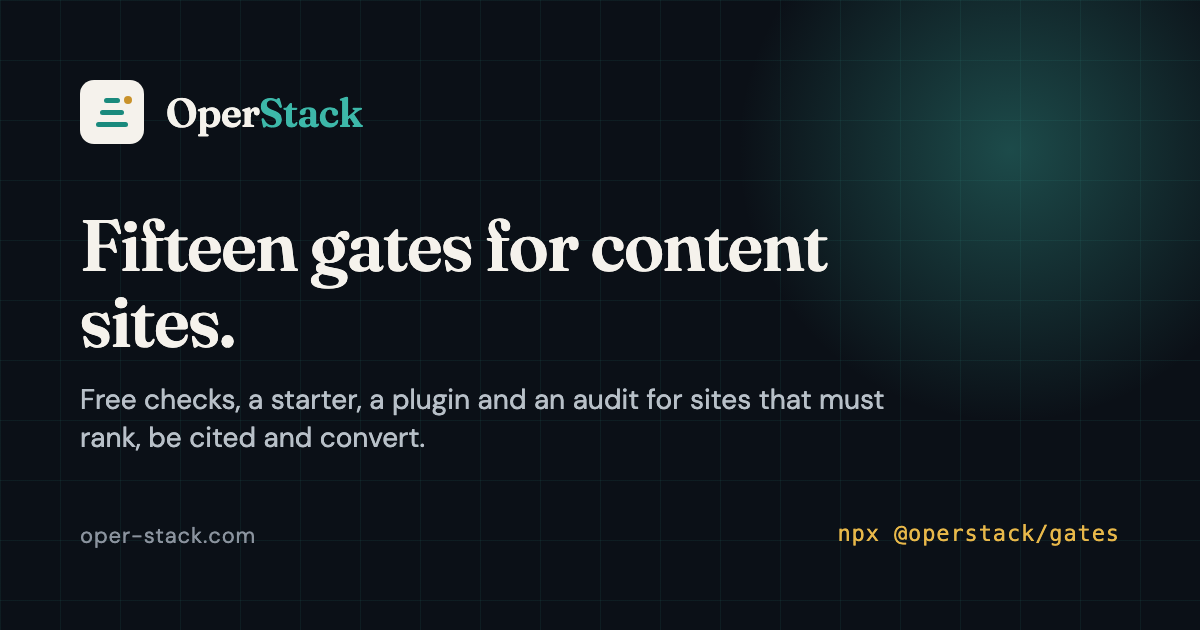
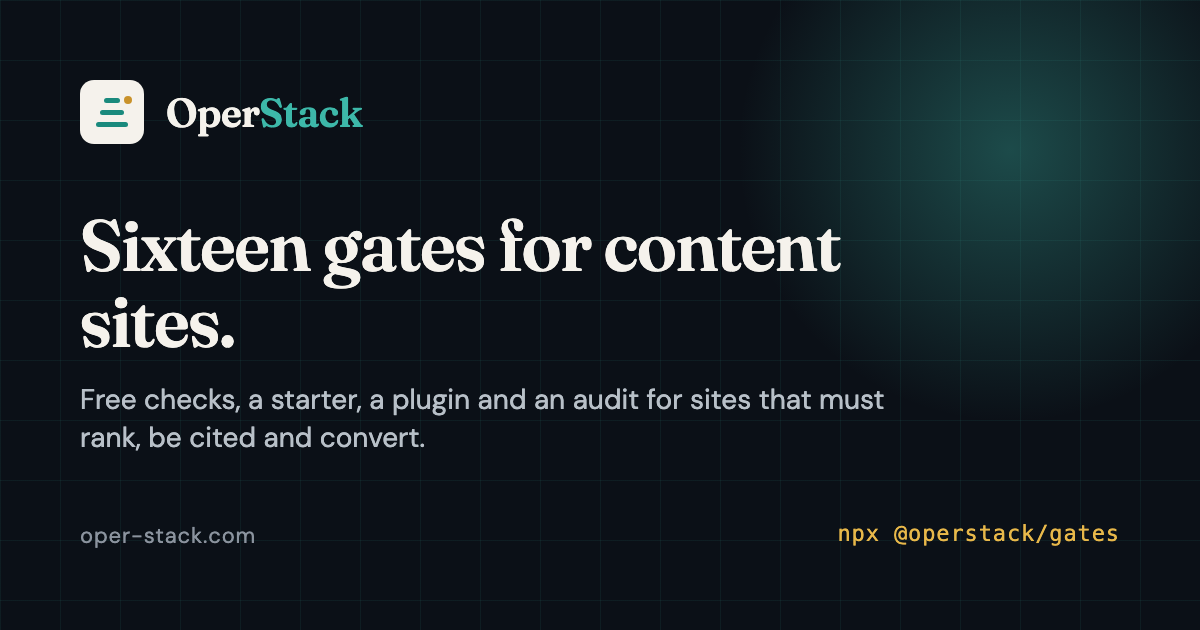
fix: the count in three cards was fifteen, the package ships sixteen gates
og-default, og-gates and og-site-kit carried the number inside the picture, so
every copy fix since gate 16 landed left them stale.

Changed region(s): [[0.0617, 0.3317, 0.7092, 0.4524]]

diff --git a/og-site-kit.html b/og-site-kit.html
@@ -21,7 +21,7 @@
 <div class="grid"></div><div class="glow"></div>
 <div class="wrap">
   <div class="brand"><div class="mark"><i></i><i></i><i></i><b></b></div><div class="name">Oper<span>Stack</span></div></div>
-  <div><h1>Build a site that search engines and AI can quote.</h1><p>Astro starter, page generators, fifteen quality gates and a WordPress importer. One payment, your code, no subscription.</p></div>
+  <div><h1>Build a site that search engines and AI can quote.</h1><p>Astro starter, page generators, sixteen quality gates and a WordPress importer. One payment, your code, no subscription.</p></div>
   <div class="foot"><span>oper-stack.com</span><code>oper-stack.com/products/site-kit</code></div>
 </div>
 </body></html>

diff --git a/og-gates.html b/og-gates.html
@@ -21,7 +21,7 @@
 <div class="grid"></div><div class="glow"></div>
 <div class="wrap">
   <div class="brand"><div class="mark"><i></i><i></i><i></i><b></b></div><div class="name">Oper<span>Stack</span></div></div>
-  <div><h1>Your content site has defects the build log will never show you.</h1><p>Fifteen automated gates. One command. Thirteen seconds on 1,660 pages.</p></div>
+  <div><h1>Your content site has defects the build log will never show you.</h1><p>Sixteen automated gates. One command. Thirteen seconds on 1,660 pages.</p></div>
   <div class="foot"><span>oper-stack.com</span><code>npx @operstack/gates</code></div>
 </div>
 </body></html>

diff --git a/og-default.html b/og-default.html
@@ -21,7 +21,7 @@
 <div class="grid"></div><div class="glow"></div>
 <div class="wrap">
   <div class="brand"><div class="mark"><i></i><i></i><i></i><b></b></div><div class="name">Oper<span>Stack</span></div></div>
-  <div><h1>Fifteen gates for content sites.</h1><p>Free checks, a starter, a plugin and an audit for sites that must rank, be cited and convert.</p></div>
+  <div><h1>Sixteen gates for content sites.</h1><p>Free checks, a starter, a plugin and an audit for sites that must rank, be cited and convert.</p></div>
   <div class="foot"><span>oper-stack.com</span><code>npx @operstack/gates</code></div>
 </div>
 </body></html>
